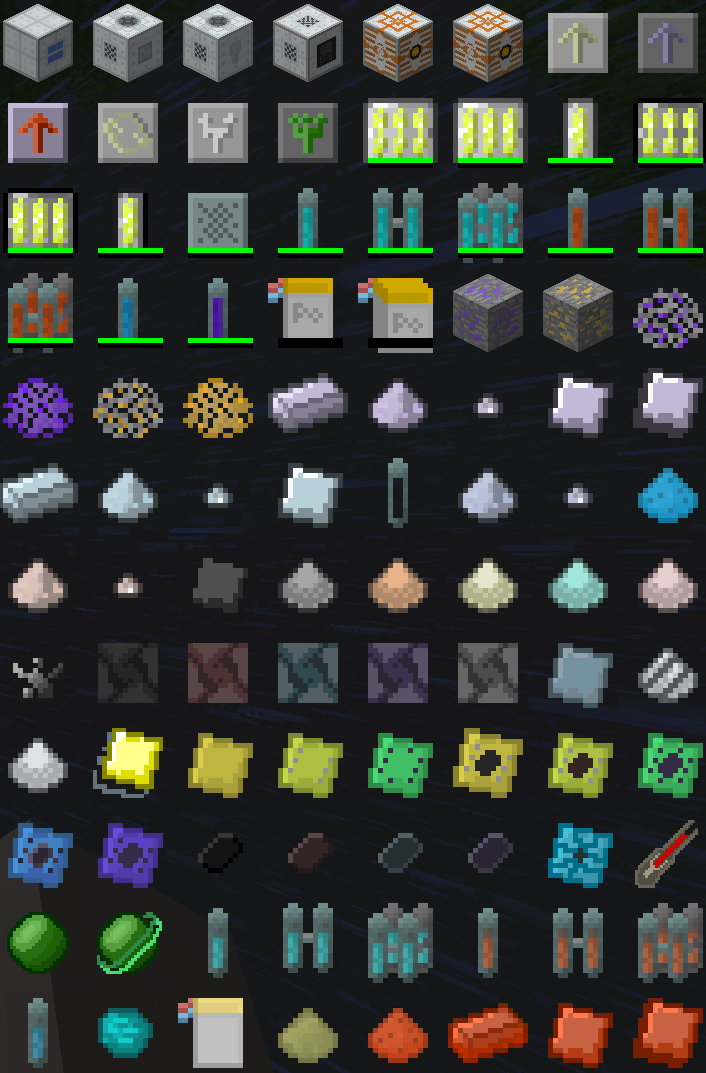
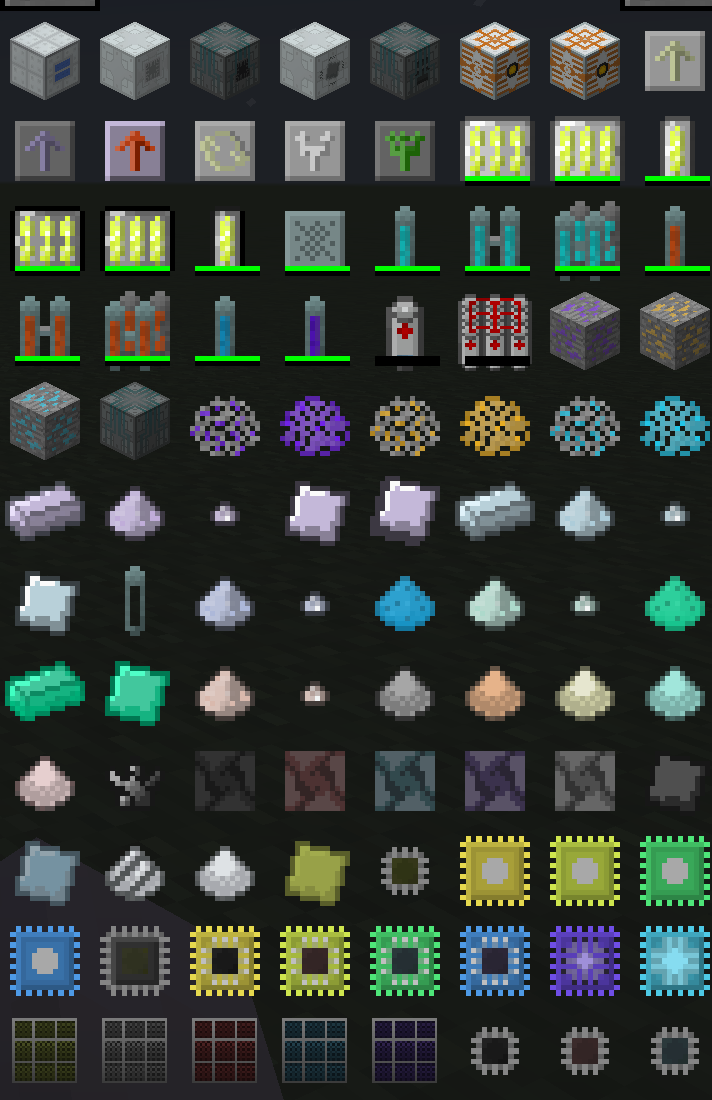
change: Lithium battery full craft. New processor/microcontroller waffles

diff --git a/src/main/java/cd/ethercd/it/ITcRecipes.java b/src/main/java/cd/ethercd/it/ITcRecipes.java
@@ -80,6 +80,12 @@ public class ITcRecipes {
                 " M ",
                 'T', BasicCraftItem.TECHNETIUM_DUST.getStack(),
                 'M', BasicCraftItem.MOLYBDENUM_SMALL_DUST.getStack());
+        addBasicRecipe(BasicCraftItem.COBALT_LITHIUM_MIXTURE.getStack(3),
+                "CCC",
+                "CLL",
+                "LLL",
+                'C', BasicCraftItem.COBALT_DUST.getStack(),
+                'L', IC2Items.dust_lithium);
         addRecipeForRod(ITcItemLoader.technetium_rod, ITcItemLoader.technetium_dual_rod, ITcItemLoader.technetium_quad_rod);
         addRecipeForRod(ITcItemLoader.molybdenum_rod, ITcItemLoader.molybdenum_dual_rod, ITcItemLoader.molybdenum_quad_rod);
 
@@ -363,11 +369,11 @@ public class ITcRecipes {
 
         addCrystalGrowerRecipe(factory.forStack(BasicCraftItem.PURIFIED_SILICON.getStack()), BasicCraftItem.SILICON_INGOT.getStack());
 
-        addLithographyUnitRecipe(factory, BasicCraftItem.MICROCONTROLLER_LITHOGRAPHY_MASK.getStack(), BasicCraftItem.SILICON_PLATE.getStack(), BasicCraftItem.MICROCONTROLLER_CHIP.getStack());
-        addLithographyUnitRecipe(factory, BasicCraftItem.BASIC_PROCESSOR_LITHOGRAPHIC_MASK.getStack(), BasicCraftItem.SILICON_PLATE.getStack(), BasicCraftItem.BASIC_PROCESSOR_CHIP.getStack());
-        addLithographyUnitRecipe(factory, BasicCraftItem.IMPROVED_PROCESSOR_LITHOGRAPHIC_MASK.getStack(), BasicCraftItem.IMPROVED_SILICON_PLATE.getStack(), BasicCraftItem.IMPROVED_PROCESSOR_CHIP.getStack());
-        addImprovedLithographyUnitRecipe(factory, BasicCraftItem.ADVANCED_PROCESSOR_LITHOGRAPHIC_MASK.getStack(), BasicCraftItem.ADVANCED_SILICON_PLATE.getStack(), BasicCraftItem.ADVANCED_PROCESSOR_CHIP.getStack());
-        addImprovedLithographyUnitRecipe(factory, BasicCraftItem.PERFECT_PROCESSOR_LITHOGRAPHIC_MASK.getStack(), BasicCraftItem.PERFECT_SILICON_PLATE.getStack(), BasicCraftItem.PERFECT_PROCESSOR_CHIP.getStack());
+        addLithographyUnitRecipe(factory, BasicCraftItem.MICROCONTROLLER_LITHOGRAPHY_MASK.getStack(), BasicCraftItem.SILICON_PLATE.getStack(), BasicCraftItem.MICROCONTROLLER_WAFFLE.getStack());
+        addLithographyUnitRecipe(factory, BasicCraftItem.BASIC_PROCESSOR_LITHOGRAPHIC_MASK.getStack(), BasicCraftItem.SILICON_PLATE.getStack(), BasicCraftItem.BASIC_PROCESSOR_WAFFLE.getStack());
+        addLithographyUnitRecipe(factory, BasicCraftItem.IMPROVED_PROCESSOR_LITHOGRAPHIC_MASK.getStack(), BasicCraftItem.IMPROVED_SILICON_PLATE.getStack(), BasicCraftItem.IMPROVED_PROCESSOR_WAFFLE.getStack());
+        addImprovedLithographyUnitRecipe(factory, BasicCraftItem.ADVANCED_PROCESSOR_LITHOGRAPHIC_MASK.getStack(), BasicCraftItem.ADVANCED_SILICON_PLATE.getStack(), BasicCraftItem.ADVANCED_PROCESSOR_WAFFLE.getStack());
+        addImprovedLithographyUnitRecipe(factory, BasicCraftItem.PERFECT_PROCESSOR_LITHOGRAPHIC_MASK.getStack(), BasicCraftItem.PERFECT_SILICON_PLATE.getStack(), BasicCraftItem.PERFECT_PROCESSOR_WAFFLE.getStack());
 
         addSolderingRecipe(factory, IC2Items.cable_copper, 2, IC2Items.dust_tin, 2, new ItemStack(Items.REDSTONE), 2, IC2Items.circuit);
         addSolderingRecipe(factory, IC2Items.circuit, 1, new ItemStack(Items.GLOWSTONE_DUST), 2, IC2Items.dust_lapis, 2, IC2Items.advanced_circuit);

diff --git a/src/main/java/cd/ethercd/it/items/BasicCraftItem.java b/src/main/java/cd/ethercd/it/items/BasicCraftItem.java
@@ -71,7 +71,13 @@ public enum BasicCraftItem {
     ADVANCED_PROCESSOR("advanced_processor"),
     PERFECT_PROCESSOR("perfect_processor"),
     QUANTUM_PROCESSOR("quantum_processor"),
-    PRHOTONIC_PROCESSOR("photonic_processor"),
+    PHOTONIC_PROCESSOR("photonic_processor"),
+
+    MICROCONTROLLER_WAFFLE("microcontroller_waffle"),
+    BASIC_PROCESSOR_WAFFLE("basic_processor_waffle"),
+    IMPROVED_PROCESSOR_WAFFLE("improved_processor_waffle"),
+    ADVANCED_PROCESSOR_WAFFLE("advanced_processor_waffle"),
+    PERFECT_PROCESSOR_WAFFLE("perfect_processor_waffle"),
 
     BASIC_PROCESSOR_CHIP("basic_processor_chip"),
     IMPROVED_PROCESSOR_CHIP("improved_processor_chip"),

diff --git a/src/main/java/cd/ethercd/it/jei/machines/ImprovedLithographyUnitCategory.java b/src/main/java/cd/ethercd/it/jei/machines/ImprovedLithographyUnitCategory.java
@@ -24,7 +24,7 @@ public class ImprovedLithographyUnitCategory extends IORecipeCategory<Lithograph
 
     public ImprovedLithographyUnitCategory(IGuiHelper h) {
         super(ITcMachine.improved_lithography_unit, ITcRecipes.improved_lithography_unit);
-        bg = h.createDrawable(new ResourceLocation(IndustrialTinyCraft.MODID + ":textures/gui/improved_lithography_unit.png"), 43, 34, 90, 18);
+        bg = h.createDrawable(new ResourceLocation(IndustrialTinyCraft.MODID + ":textures/gui/improved_lithography_unit.png"), 43, 33, 90, 18);
     }
 
     @Override

diff --git a/src/main/java/cd/ethercd/it/jei/machines/LithographyUnitCategory.java b/src/main/java/cd/ethercd/it/jei/machines/LithographyUnitCategory.java
@@ -25,7 +25,7 @@ public class LithographyUnitCategory extends IORecipeCategory<LithographyRecipeM
 
     public LithographyUnitCategory(IGuiHelper h) {
         super(ITcMachine.lithography_unit, ITcRecipes.lithography_unit);
-        bg = h.createDrawable(new ResourceLocation(IndustrialTinyCraft.MODID + ":textures/gui/lithography_unit.png"), 43, 34, 90, 18);
+        bg = h.createDrawable(new ResourceLocation(IndustrialTinyCraft.MODID + ":textures/gui/lithography_unit.png"), 43, 33, 90, 18);
     }
 
     @Override

diff --git a/src/main/java/cd/ethercd/it/utils/LithographyRecipeManager.java b/src/main/java/cd/ethercd/it/utils/LithographyRecipeManager.java
@@ -57,7 +57,7 @@ public class LithographyRecipeManager {
                 ItemStack input1 = entry.getKey().input;
                 ItemStack input2 = ent.getKey().input;
                 ItemStack output = ent.getValue();
-                DualInputRecipeWrapper recipe = new DualInputRecipeWrapper(input1, input2, output);
+                DualInputRecipeWrapper recipe = new DualInputRecipeWrapper(input2, input1, output);
                 jeiRecipes.add(recipe);
             }
         }

diff --git a/README.md b/README.md
@@ -9,32 +9,6 @@ An addon that adds a new industry branch (processors) and research. Have fun!
 
 </div>
 
-### New ores and elements
-
-**Cyrtolite** and **Wulfenite**
-
-**Zirconium** (in reactor components), **Hafnium** (used in electronics), and **Molybdenum** (in heat-resistant materials)
-
-### A new development branch for electronics
-
-Adds different **processor technologies**, each requiring new resources!
-
-Used in almost all electronics of new **items/improvements/mechanisms**
-
-### Reactor things
-
-Adds a neutron moderator, target rods for producing new isotopes
-
-### Upgrades!
-
-In addition to the well-worn upgrades for mechanisms like Overclocker, the project will add "Parallel Processing" upgrades and other more useful upgrades (like "Centrifuge Heating Holder").
-
-### Application of lithium
-
-Also, the previously useless lithium is now used for batteries and the new MFSU. Don't forget to fill them with electrolyte!
-
-### Screenshot
-
 ![Screenshot](./src/main/resources/screenshot.png)
 
 ## How to
